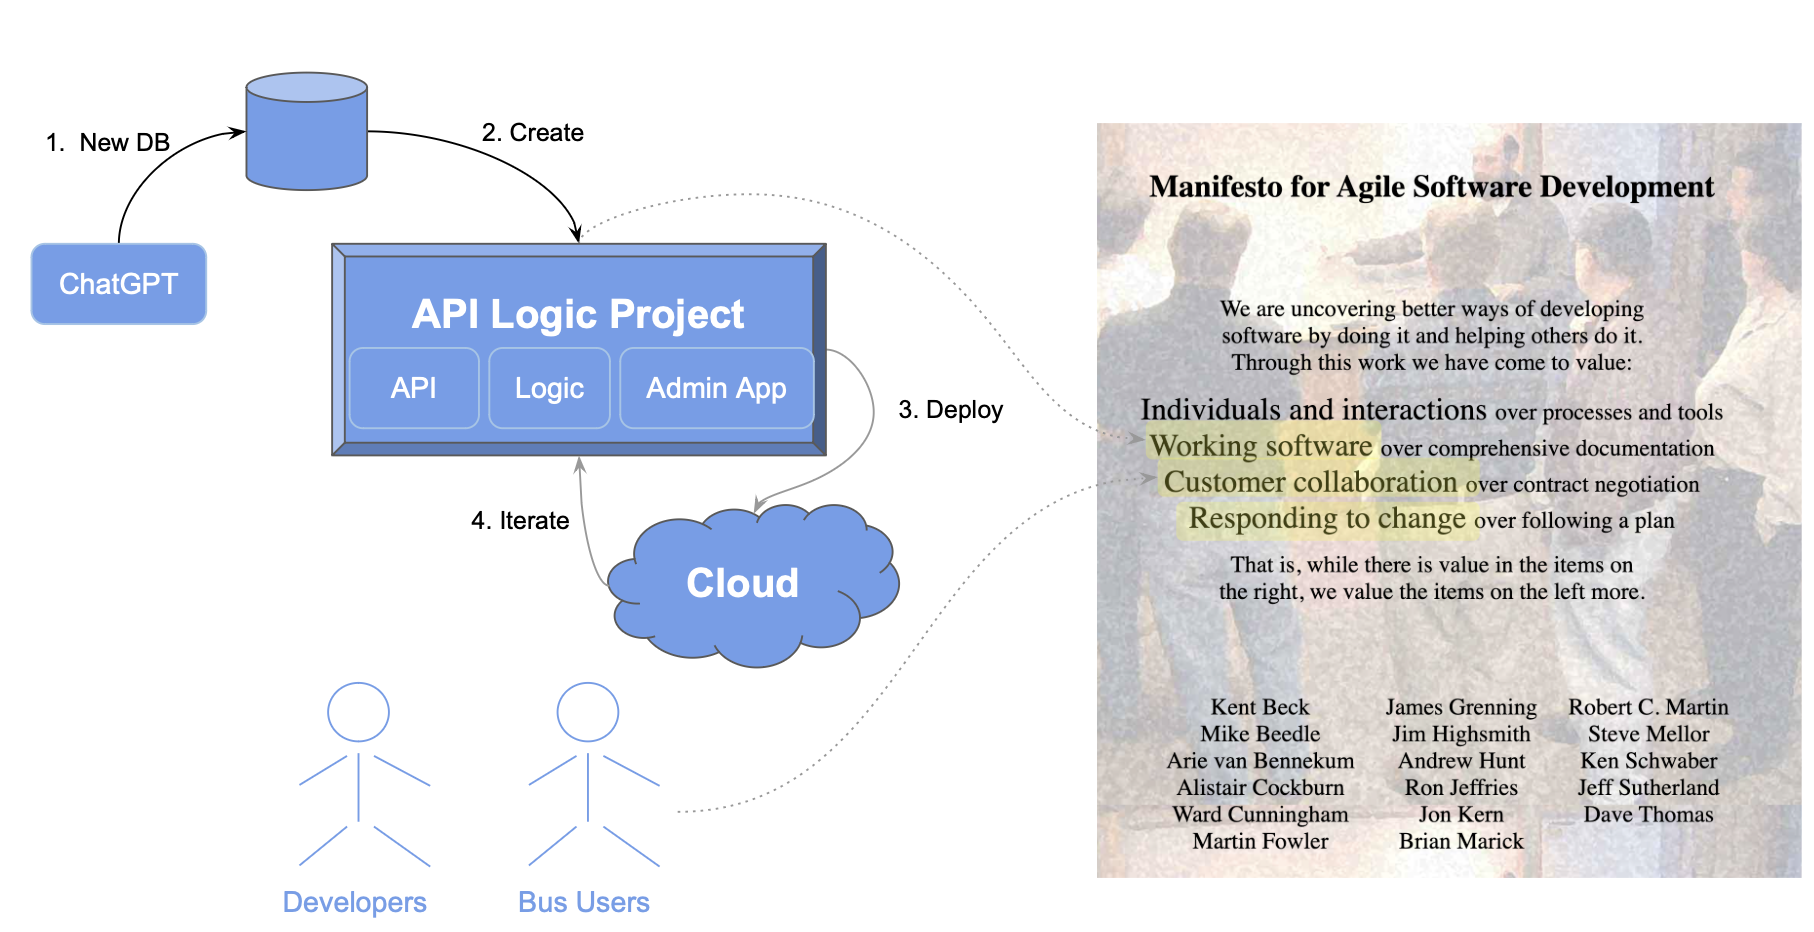
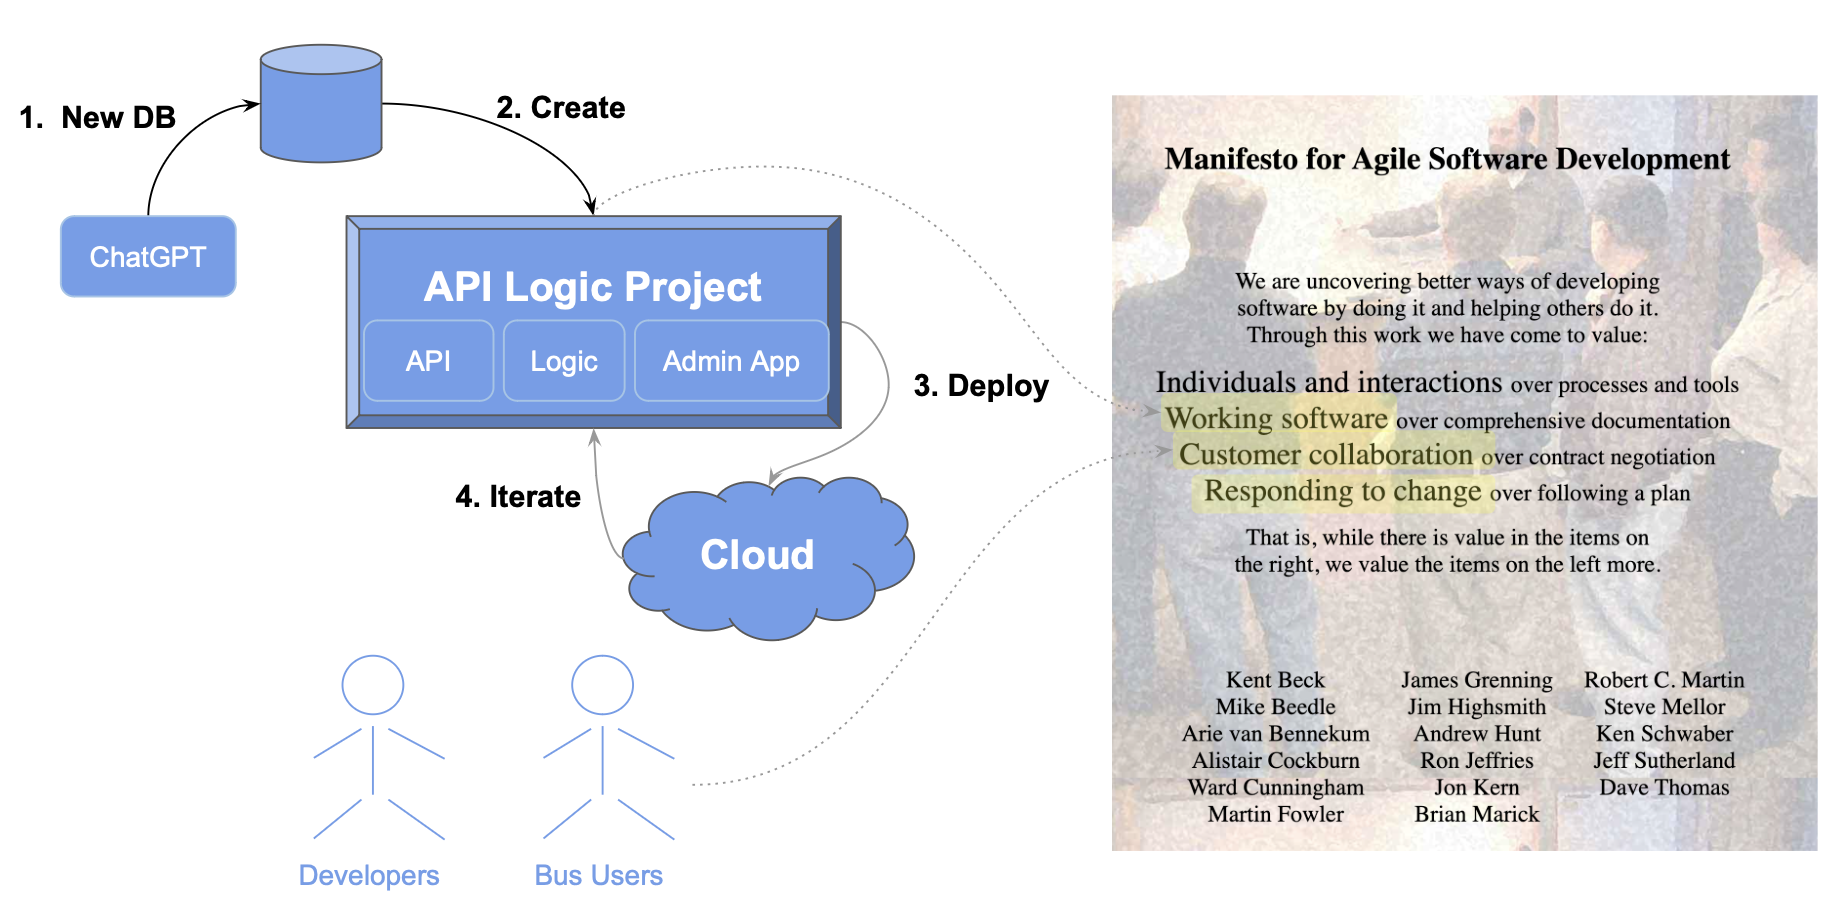
simpler

diff --git a/docs/Tutorial-AI.md b/docs/Tutorial-AI.md
@@ -1,4 +1,10 @@
-!!! pied-piper ":bulb: TL;DR - Working Software, Now"
+<style>
+.md-typeset h1 {
+    display: none;
+  }
+</style>
+
+!!! pied-piper ":bulb: AI-Driven Automation Delivers the Agile Vision"
 
       Agile wisely advises getting Working Software as fast as possible, to facilitate Business User Collaboration and Iteration:
 
@@ -12,7 +18,6 @@
 
       This process **leverages your existing IT infrastructure:** your IDE, GitHub, the cloud, your database… open source.
 
-      To begin, [**click here**](../Tech-AI).  Allow 20 minutes, a bit more if you are new to Azure.
+      > To begin, [**click here**](../Tech-AI).  Allow 20 minutes, a bit more if you are new to Azure.
 
-
-![ai-driven-automation](images/ai-driven-automation/ai-driven-automation.png)
+![ai-driven-automation](images/ai-driven-automation/ai-driven-automation-no-title.png)
